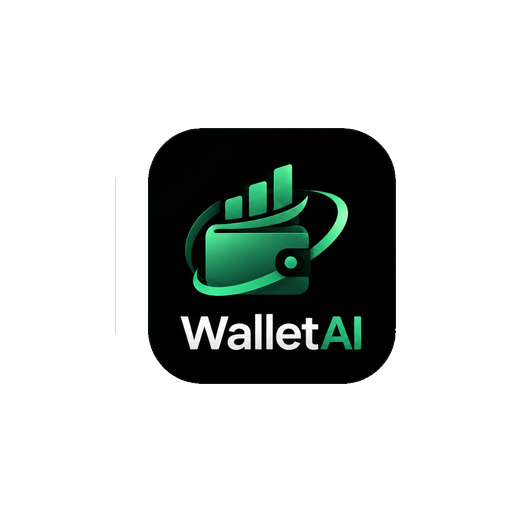
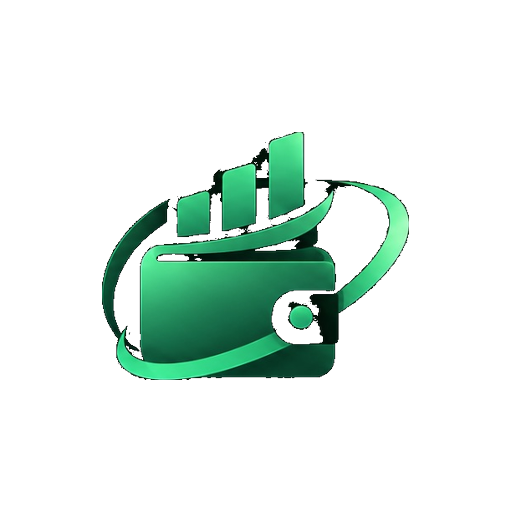
fix: botoes cortados pela barra de sistema em todas as telas e icone adaptativo descentralizado (glifo isolado do texto)

Changed region(s): [[0.1875, 0.25, 0.8125, 0.75]]

diff --git a/src/app/card-invoices.tsx b/src/app/card-invoices.tsx
@@ -6,6 +6,7 @@ import { getCardInvoices, deleteInvoiceItem, updateInvoiceItem } from '@/service
 import { GlassCard } from '@/components/GlassCard';
 import { BackButton } from '@/components/BackButton';
 import { Colors } from '@/constants/colors';
+import { useBottomPadding } from '@/utils/useBottomPadding';
 
 type InvoiceItem = { id: number; description: string; installmentAmount: number; currentInstallment: number; totalInstallments: number };
 type Invoice = { id: number; month: number; year: number; total: number; items: InvoiceItem[] };
@@ -13,6 +14,7 @@ type Invoice = { id: number; month: number; year: number; total: number; items: 
 const MESES = ['Jan', 'Fev', 'Mar', 'Abr', 'Mai', 'Jun', 'Jul', 'Ago', 'Set', 'Out', 'Nov', 'Dez'];
 
 export default function CardInvoicesScreen() {
+  const bottomPadding = useBottomPadding(40);
   const { cardId, cardName } = useLocalSearchParams<{ cardId: string; cardName: string }>();
   const [invoices, setInvoices] = useState<Invoice[]>([]);
   const [loading, setLoading] = useState(true);
@@ -90,7 +92,7 @@ export default function CardInvoicesScreen() {
     <View style={styles.screen}>
       <View style={[styles.blob, styles.blobTop]} />
       <BackButton />
-      <ScrollView contentContainerStyle={styles.container} keyboardShouldPersistTaps="handled" keyboardDismissMode="on-drag">
+      <ScrollView contentContainerStyle={[styles.container, { paddingBottom: bottomPadding }]} keyboardShouldPersistTaps="handled" keyboardDismissMode="on-drag">
         <Text variant="headlineLarge" style={styles.title}>{cardName}</Text>
         <Text style={styles.subtitle}>Todas as faturas lançadas</Text>
 

diff --git a/src/app/financial-profile.tsx b/src/app/financial-profile.tsx
@@ -11,6 +11,7 @@ import {
 import { GlassCard } from '@/components/GlassCard';
 import { BackButton } from '@/components/BackButton';
 import { Colors } from '@/constants/colors';
+import { useBottomPadding } from '@/utils/useBottomPadding';
 
 type IncomeRow = { id?: number; description: string; amount: string; recorrente: boolean; month: string; year: string };
 type ExpenseRow = { id?: number; description: string; amount: string; isCreditCard: boolean; cardId: number | null; recorrente: boolean; month: string; year: string };
@@ -27,6 +28,7 @@ function emptyExpenseRow(): ExpenseRow {
 }
 
 export default function FinancialProfileScreen() {
+  const bottomPadding = useBottomPadding(40);
   const [incomeRows, setIncomeRows] = useState<IncomeRow[]>([emptyIncomeRow()]);
   const [expenseRows, setExpenseRows] = useState<ExpenseRow[]>([emptyExpenseRow()]);
   const [creditCards, setCreditCards] = useState<CreditCardOption[]>([]);
@@ -167,7 +169,7 @@ export default function FinancialProfileScreen() {
       <BackButton />
 
       <KeyboardAvoidingView style={styles.flex} behavior={Platform.OS === 'ios' ? 'padding' : 'height'}>
-      <ScrollView contentContainerStyle={styles.container} keyboardShouldPersistTaps="handled" keyboardDismissMode="on-drag">
+      <ScrollView contentContainerStyle={[styles.container, { paddingBottom: bottomPadding }]} keyboardShouldPersistTaps="handled" keyboardDismissMode="on-drag">
         <Text variant="headlineLarge" style={styles.title}>Meus dados financeiros</Text>
         <Text variant="bodyMedium" style={styles.subtitle}>Usados para calcular quanto você pode gastar</Text>
 

diff --git a/src/app/monthly-review.tsx b/src/app/monthly-review.tsx
@@ -9,6 +9,7 @@ import {
 import { GlassCard } from '@/components/GlassCard';
 import { BackButton } from '@/components/BackButton';
 import { Colors } from '@/constants/colors';
+import { useBottomPadding } from '@/utils/useBottomPadding';
 
 type ExpenseRecord = { id: number; description: string; amount: number; isPaid: boolean };
 type IncomeRecordType = { id: number; description: string; amount: number; isReceived: boolean };
@@ -16,6 +17,7 @@ type IncomeRecordType = { id: number; description: string; amount: number; isRec
 const MESES = ['Janeiro','Fevereiro','Março','Abril','Maio','Junho','Julho','Agosto','Setembro','Outubro','Novembro','Dezembro'];
 
 export default function MonthlyReviewScreen() {
+  const bottomPadding = useBottomPadding(40);
   const [expenseRecords, setExpenseRecords] = useState<ExpenseRecord[]>([]);
   const [incomeRecords, setIncomeRecords] = useState<IncomeRecordType[]>([]);
   const [loading, setLoading] = useState(true);
@@ -74,7 +76,7 @@ export default function MonthlyReviewScreen() {
     <View style={styles.screen}>
       <View style={[styles.blob, styles.blobTop]} />
       <BackButton />
-      <ScrollView contentContainerStyle={styles.container}>
+      <ScrollView contentContainerStyle={[styles.container, { paddingBottom: bottomPadding }]}>
         <Text variant="headlineLarge" style={styles.title}>{mesAtual}</Text>
         <Text style={styles.subtitle}>Marque o que já foi pago ou recebido</Text>
 

diff --git a/src/app/category-budgets.tsx b/src/app/category-budgets.tsx
@@ -6,6 +6,7 @@ import { getCategoryBudgets, updateCategoryBudgets } from '@/services/api';
 import { GlassCard } from '@/components/GlassCard';
 import { BackButton } from '@/components/BackButton';
 import { Colors } from '@/constants/colors';
+import { useBottomPadding } from '@/utils/useBottomPadding';
 
 type BudgetRow = { categoria: string; limite: string; gasto: number; percentualUsado: number };
 
@@ -14,6 +15,7 @@ const now = new Date();
 const MES_ATUAL_LABEL = `${MESES[now.getMonth()]} de ${now.getFullYear()}`;
 
 export default function CategoryBudgetsScreen() {
+  const bottomPadding = useBottomPadding(40);
   const [rows, setRows] = useState<BudgetRow[]>([]);
   const [loading, setLoading] = useState(false);
   const [loadingInitial, setLoadingInitial] = useState(true);
@@ -72,7 +74,7 @@ export default function CategoryBudgetsScreen() {
       <View style={[styles.blob, styles.blobTop]} />
       <BackButton />
 
-      <ScrollView contentContainerStyle={styles.container} keyboardShouldPersistTaps="handled" keyboardDismissMode="on-drag">
+      <ScrollView contentContainerStyle={[styles.container, { paddingBottom: bottomPadding }]} keyboardShouldPersistTaps="handled" keyboardDismissMode="on-drag">
         <Text variant="headlineLarge" style={styles.title}>Orçamento por categoria</Text>
         <View style={styles.monthBadge}>
           <Text style={styles.monthBadgeText}>Sempre reflete {MES_ATUAL_LABEL} (mês atual)</Text>

diff --git a/src/app/benefit-wallets.tsx b/src/app/benefit-wallets.tsx
@@ -6,12 +6,14 @@ import { getBenefitWallets, createBenefitWallet, topUpBenefitWallet, deleteBenef
 import { GlassCard } from '@/components/GlassCard';
 import { BackButton } from '@/components/BackButton';
 import { Colors } from '@/constants/colors';
+import { useBottomPadding } from '@/utils/useBottomPadding';
 
 type Wallet = { id: number; type: string; balance: number; gastoNoMes: number };
 
 const TIPOS = ['VR', 'VA', 'Combustível'];
 
 export default function BenefitWalletsScreen() {
+  const bottomPadding = useBottomPadding(60);
   const [wallets, setWallets] = useState<Wallet[]>([]);
   const [loading, setLoading] = useState(true);
   const [creatingType, setCreatingType] = useState<string | null>(null);
@@ -89,7 +91,7 @@ export default function BenefitWalletsScreen() {
       <View style={[styles.blob, styles.blobTop]} />
       <BackButton />
 
-      <ScrollView contentContainerStyle={styles.container} keyboardShouldPersistTaps="handled" keyboardDismissMode="on-drag">
+      <ScrollView contentContainerStyle={[styles.container, { paddingBottom: bottomPadding }]} keyboardShouldPersistTaps="handled" keyboardDismissMode="on-drag">
         <Text variant="headlineLarge" style={styles.title}>Benefícios de trabalho</Text>
         <Text style={styles.subtitle}>VR, VA e cartão combustível — a IA confere se a transação faz sentido pra cada tipo.</Text>
 

diff --git a/src/app/add-transaction.tsx b/src/app/add-transaction.tsx
@@ -6,10 +6,12 @@ import { createTransaction, updateTransaction, getBenefitWallets } from '@/servi
 import { GlassCard } from '@/components/GlassCard';
 import { BackButton } from '@/components/BackButton';
 import { Colors } from '@/constants/colors';
+import { useBottomPadding } from '@/utils/useBottomPadding';
 
 type BenefitWallet = { id: number; type: string };
 
 export default function AddTransactionScreen() {
+  const bottomPadding = useBottomPadding(24);
   const params = useLocalSearchParams<{ id?: string; amount?: string; type?: string; description?: string; benefitWalletId?: string }>();
   const isEditing = !!params.id;
 
@@ -61,7 +63,7 @@ export default function AddTransactionScreen() {
       <BackButton />
 
       <KeyboardAvoidingView style={styles.flex} behavior={Platform.OS === 'ios' ? 'padding' : 'height'}>
-        <ScrollView contentContainerStyle={styles.container} keyboardShouldPersistTaps="handled" keyboardDismissMode="on-drag">
+        <ScrollView contentContainerStyle={[styles.container, { paddingBottom: bottomPadding }]} keyboardShouldPersistTaps="handled" keyboardDismissMode="on-drag">
           <Text variant="headlineLarge" style={styles.title}>{isEditing ? 'Editar transação' : 'Nova transação'}</Text>
           <Text variant="bodyMedium" style={styles.subtitle}>A categoria é sugerida automaticamente pela IA</Text>
 

diff --git a/src/app/credit-cards.tsx b/src/app/credit-cards.tsx
@@ -6,6 +6,7 @@ import { getCreditCards, getCreditCardSummary, deleteCreditCard, deleteInvoiceIt
 import { GlassCard } from '@/components/GlassCard';
 import { BottomNavBar } from '@/components/BottomNavBar';
 import { Colors } from '@/constants/colors';
+import { useBottomPadding } from '@/utils/useBottomPadding';
 
 type Card = { id: number; name: string; limit: number; totalFaturaAtual: number; percentualDoLimite: number };
 type Summary = {
@@ -15,6 +16,7 @@ type Summary = {
 };
 
 export default function CreditCardsScreen() {
+  const bottomPadding = useBottomPadding(130);
   const [cards, setCards] = useState<Card[]>([]);
   const [summary, setSummary] = useState<Summary | null>(null);
   const [loading, setLoading] = useState(true);
@@ -98,7 +100,7 @@ export default function CreditCardsScreen() {
     <View style={styles.screen}>
       <View style={[styles.blob, styles.blobTop]} />
 
-      <ScrollView contentContainerStyle={styles.container} keyboardShouldPersistTaps="handled" keyboardDismissMode="on-drag">
+      <ScrollView contentContainerStyle={[styles.container, { paddingBottom: bottomPadding }]} keyboardShouldPersistTaps="handled" keyboardDismissMode="on-drag">
         <Text variant="headlineLarge" style={styles.title}>Cartões de crédito</Text>
 
         <GlassCard style={styles.card}>

diff --git a/src/app/add-invoice-item.tsx b/src/app/add-invoice-item.tsx
@@ -6,10 +6,12 @@ import { getCreditCards, addInvoiceItem } from '@/services/api';
 import { GlassCard } from '@/components/GlassCard';
 import { BackButton } from '@/components/BackButton';
 import { Colors } from '@/constants/colors';
+import { useBottomPadding } from '@/utils/useBottomPadding';
 
 type Card = { id: number; name: string };
 
 export default function AddInvoiceItemScreen() {
+  const bottomPadding = useBottomPadding(40);
   const [cards, setCards] = useState<Card[]>([]);
   const [selectedCardId, setSelectedCardId] = useState<number | null>(null);
   const [month, setMonth] = useState(String(new Date().getMonth() + 1));
@@ -76,7 +78,7 @@ export default function AddInvoiceItemScreen() {
     <View style={styles.screen}>
       <View style={[styles.blob, styles.blobTop]} />
       <BackButton />
-      <ScrollView contentContainerStyle={styles.container} keyboardShouldPersistTaps="handled" keyboardDismissMode="on-drag">
+      <ScrollView contentContainerStyle={[styles.container, { paddingBottom: bottomPadding }]} keyboardShouldPersistTaps="handled" keyboardDismissMode="on-drag">
         <Text variant="headlineLarge" style={styles.title}>Lançar item na fatura</Text>
         <Text style={styles.subtitle}>Copie exatamente como está na fatura do seu banco</Text>
 

diff --git a/src/app/goals.tsx b/src/app/goals.tsx
@@ -6,6 +6,7 @@ import { getGoals, createGoal, updateGoal, deleteGoal } from '@/services/api';
 import { GlassCard } from '@/components/GlassCard';
 import { BottomNavBar } from '@/components/BottomNavBar';
 import { Colors } from '@/constants/colors';
+import { useBottomPadding } from '@/utils/useBottomPadding';
 
 type Goal = {
   id: number;
@@ -17,6 +18,7 @@ type Goal = {
 };
 
 export default function GoalsScreen() {
+  const bottomPadding = useBottomPadding(130);
   const [goals, setGoals] = useState<Goal[]>([]);
   const [loading, setLoading] = useState(true);
   const [newDescription, setNewDescription] = useState('');
@@ -111,7 +113,7 @@ export default function GoalsScreen() {
     <View style={styles.screen}>
       <View style={[styles.blob, styles.blobTop]} />
 
-      <ScrollView contentContainerStyle={styles.container} keyboardShouldPersistTaps="handled" keyboardDismissMode="on-drag">
+      <ScrollView contentContainerStyle={[styles.container, { paddingBottom: bottomPadding }]} keyboardShouldPersistTaps="handled" keyboardDismissMode="on-drag">
         <Text variant="headlineLarge" style={styles.title}>Metas financeiras</Text>
         <Text variant="bodyMedium" style={styles.subtitle}>Acompanhe o progresso dos seus objetivos</Text>
 

diff --git a/src/app/forgot-password.tsx b/src/app/forgot-password.tsx
@@ -6,8 +6,10 @@ import { resetPassword } from '@/services/api';
 import { GlassCard } from '@/components/GlassCard';
 import { BackButton } from '@/components/BackButton';
 import { Colors } from '@/constants/colors';
+import { useBottomPadding } from '@/utils/useBottomPadding';
 
 export default function ForgotPasswordScreen() {
+  const bottomPadding = useBottomPadding(24);
   const [email, setEmail] = useState('');
   const [newPassword, setNewPassword] = useState('');
   const [confirmPassword, setConfirmPassword] = useState('');
@@ -42,7 +44,7 @@ export default function ForgotPasswordScreen() {
       <BackButton />
 
       <KeyboardAvoidingView style={styles.flex} behavior={Platform.OS === 'ios' ? 'padding' : 'height'}>
-        <ScrollView contentContainerStyle={styles.container} keyboardShouldPersistTaps="handled" keyboardDismissMode="on-drag">
+        <ScrollView contentContainerStyle={[styles.container, { paddingBottom: bottomPadding }]} keyboardShouldPersistTaps="handled" keyboardDismissMode="on-drag">
         <Text variant="headlineLarge" style={styles.title}>Redefinir senha</Text>
         <Text variant="bodyMedium" style={styles.subtitle}>Informe seu email e a nova senha</Text>
 

diff --git a/src/app/login.tsx b/src/app/login.tsx
@@ -7,8 +7,10 @@ import { login } from '@/services/api';
 import { GlassCard } from '@/components/GlassCard';
 import { Colors } from '@/constants/colors';
 import { resolvePostAuthRoute } from '@/utils/postAuthRoute';
+import { useBottomPadding } from '@/utils/useBottomPadding';
 
 export default function LoginScreen() {
+  const bottomPadding = useBottomPadding(24);
   const [email, setEmail] = useState('');
   const [password, setPassword] = useState('');
   const [loading, setLoading] = useState(false);
@@ -56,7 +58,7 @@ export default function LoginScreen() {
       <View style={[styles.blob, styles.blobBottom]} />
 
       <KeyboardAvoidingView style={styles.flex} behavior={Platform.OS === 'ios' ? 'padding' : 'height'}>
-        <ScrollView contentContainerStyle={styles.container} keyboardShouldPersistTaps="handled" keyboardDismissMode="on-drag">
+        <ScrollView contentContainerStyle={[styles.container, { paddingBottom: bottomPadding }]} keyboardShouldPersistTaps="handled" keyboardDismissMode="on-drag">
         <Text variant="headlineLarge" style={styles.title}>WalletAI</Text>
         <Text variant="bodyMedium" style={styles.subtitle}>Gestão financeira inteligente</Text>
 

diff --git a/src/app/home.tsx b/src/app/home.tsx
@@ -12,6 +12,7 @@ import { IsometricPieChart } from '@/components/IsometricPieChart';
 import { BottomNavBar } from '@/components/BottomNavBar';
 import { Colors } from '@/constants/colors';
 import { buildMonthlyReportHtml } from '@/utils/pdfReport';
+import { useBottomPadding } from '@/utils/useBottomPadding';
 
 type DashboardData = {
   profile: { savingsGoal: number } | null;
@@ -41,6 +42,7 @@ const CURRENT_YEAR = now.getFullYear();
 let hasShownReviewReminderThisSession = false;
 
 export default function HomeScreen() {
+  const bottomPadding = useBottomPadding(130);
   const [data, setData] = useState<DashboardData | null>(null);
   const [userName, setUserName] = useState('');
   const [loading, setLoading] = useState(true);
@@ -195,7 +197,7 @@ export default function HomeScreen() {
     <View style={styles.screen}>
       <View style={[styles.blob, styles.blobTop]} />
 
-      <ScrollView contentContainerStyle={styles.container}>
+      <ScrollView contentContainerStyle={[styles.container, { paddingBottom: bottomPadding }]}>
         <Text style={styles.title} numberOfLines={1} adjustsFontSizeToFit>
           Bem-vindo(a){userName ? `, ${userName}` : ''}!
         </Text>
